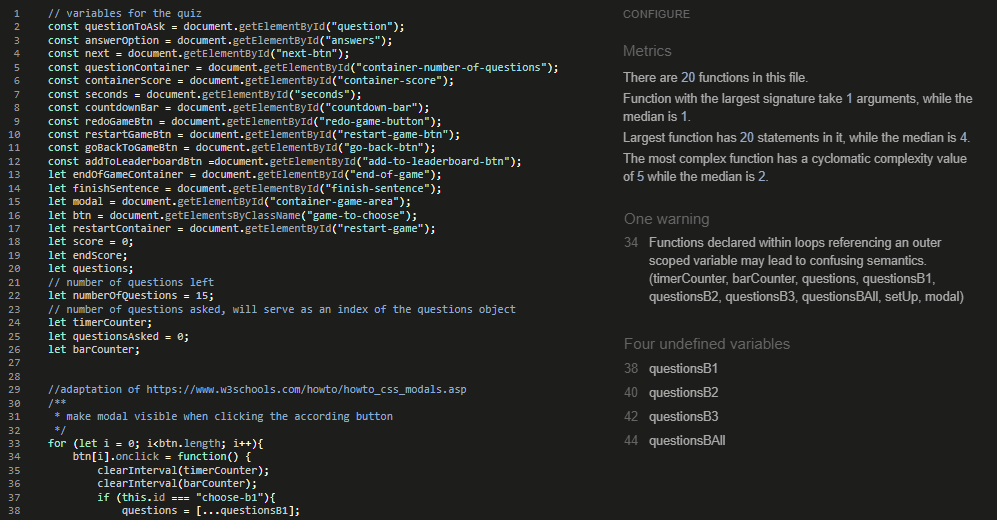
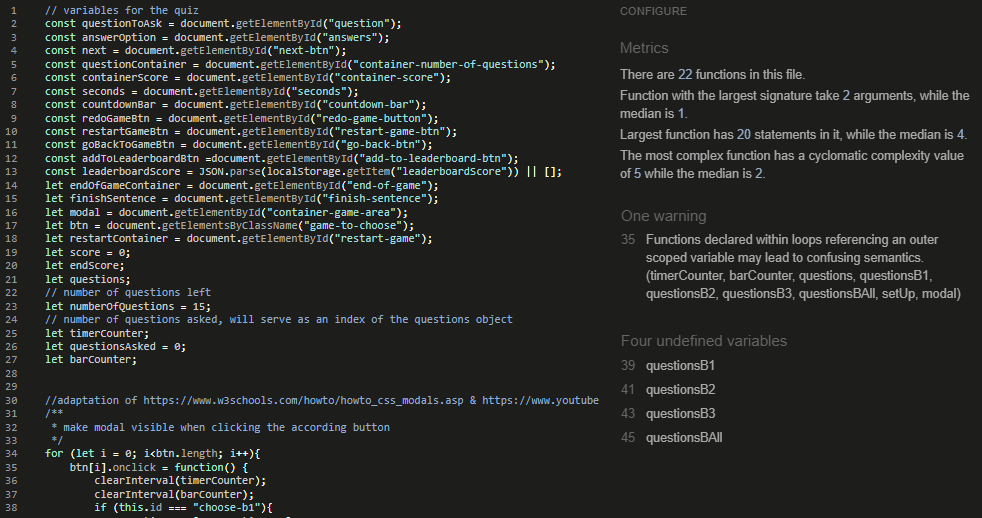
docs: Update leaderboard images and tests

diff --git a/assets/js/script.js b/assets/js/script.js
@@ -1,7 +1,5 @@
 let namePlayer = document.getElementById("name-of-player");
 const letsPlayBtn = document.getElementById("quiz-button");
-const leaderboardName = document.getElementsByClassName("namePlayer");
-const leaderBoardGame = document.getElementsByClassName("scorePlayer");
 const leaderboardList = document.getElementById("ul-leaderboard");
 const leaderboardScore = JSON.parse(localStorage.getItem("leaderboardScore")) || [];
 

diff --git a/README.md b/README.md
@@ -226,9 +226,10 @@ All pages have the following in common:
 - The user can select the "return"-button anytime they like to return to the landing page. The user could also click on the greyed out part outside of the section to go back to the landing page.
 
 #### Leaderboard - Pop-Up 
+![Leaderboard field](docs/features/leaderboard-empty-feature.png)
 ![Leaderboard field](docs/features/leaderboard-feature.png)
 - If the user selects the "Leaderboard" button an leaderboard-section will appear.
-- The user will see either an empty leaderboard or if they played before they will see their name and if the user then decided to save the score the score will also be shown.
+- The user will see either an empty leaderboard or if they played before they will see their name and score. The top 5 names + scores are displayed in the list.
 - The user can select the "return"-button anytime they like to return to the landing page. The user could also click on the greyed out part outside of the section to go back to the landing page.
 
 
